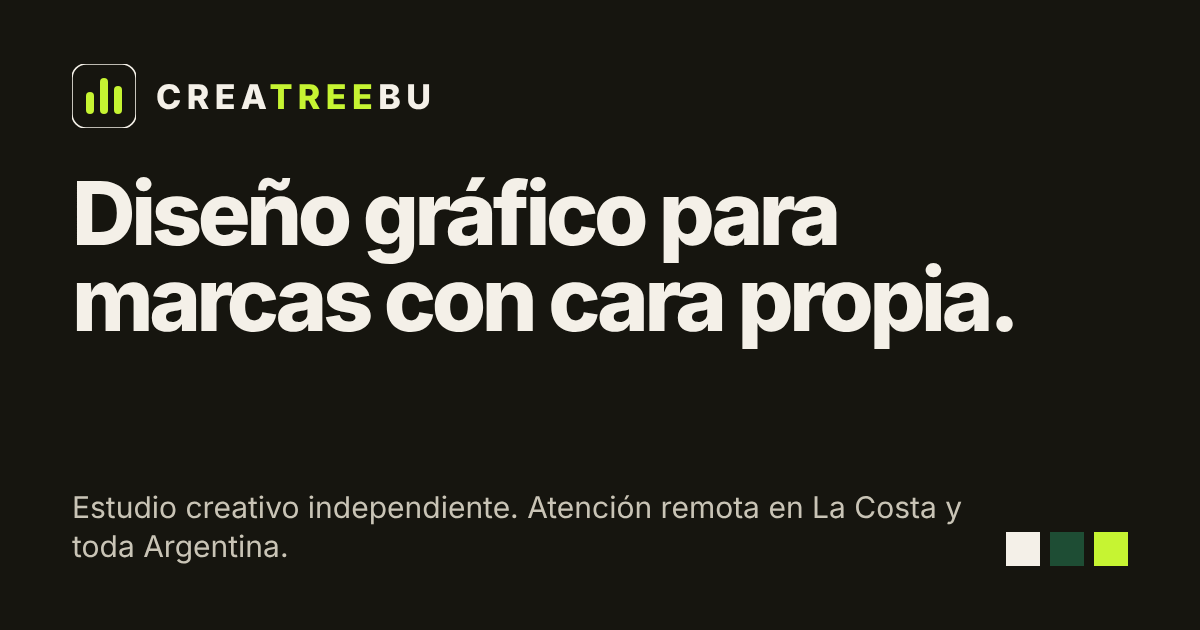
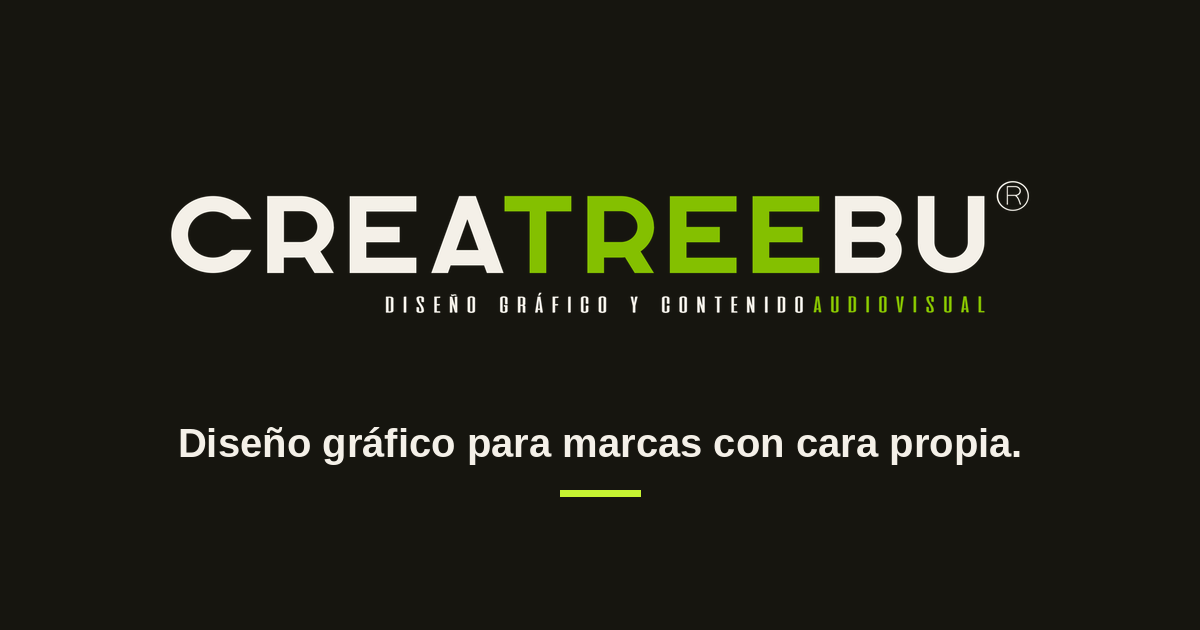
Add files via upload

diff --git a/script.js b/script.js
@@ -70,6 +70,25 @@ const WHATSAPP_MESSAGES = {
 
 const PROYECTOS = [
   {
+    id: "costero",
+    nombre: "Propuesta de rediseño de marca y plan de marketing para Costero",
+    marca: "Costero",
+    categoria: "Identidad y packaging",
+    descripcion: "Propuesta de nuevo logotipo e isotipo para una marca de panificados, con aplicaciones en packaging y merchandising, más un plan de comunicación y marketing para redes sociales.",
+    estado: "propuesta",
+    portada: true,
+    paleta: ["#D9622B", "#16150F"],
+    imagen: { src: "imagenes/costero-1.jpg", arte: "", alt: "Cuatro aplicaciones del nuevo isotipo de Costero: remera negra, gorra blanca, frente de un edificio y taza naranja, con una C naranja con tres semillas verdes." },
+    imagenes: [
+      { src: "imagenes/costero-2.jpg", arte: "", alt: "Cartelera en la vía pública con el nuevo isotipo de Costero, una C naranja con tres semillas, sobre una playa con la palabra Costero escrita en la arena." },
+      { src: "imagenes/costero-3.jpg", arte: "", alt: "Bolsa de pan transparente con el nuevo logotipo de Costero en naranja, sobre fondo gris claro." },
+      { src: "imagenes/costero-4.jpg", arte: "", alt: "Revista abierta con una página que muestra el nuevo isotipo y logotipo de Costero, y otra con un aviso de una hamburguesa y el pan ideal de Costero." },
+      { src: "imagenes/costero-5.jpg", arte: "", alt: "Página de La propuesta: el nuevo logotipo de Costero, una hamburguesa en blanco y negro, una taza naranja con el isotipo y el texto sobre la elección de las tres semillas." },
+      { src: "imagenes/costero-6.jpg", arte: "", alt: "Cierre de la propuesta con el isotipo y el logotipo de Costero en naranja sobre un fondo de madera oscura y el logo de Creatreebu." }
+    ],
+    servicios: ["Rediseño de logotipo", "Isotipo", "Aplicaciones en packaging y merchandising", "Plan de marketing", "Community management"]
+  },
+  {
     id: "heladeria-cherry",
     nombre: "Contenido digital y pantallas para Heladería Cherry",
     marca: "Heladería Cherry",
@@ -644,7 +663,7 @@ function iniciar() {
       return '<button class="pieza" type="button" data-i="' + x.i + '" aria-haspopup="dialog" style="--i:' + n + '" aria-label="' + esc("Ver proyecto " + x.p.marca) + '">' +
         '<span class="pieza-arte">' + medio(x.p.imagen, true) + "</span>" +
         '<span class="pieza-pie"><span class="pieza-marca">' + esc(x.p.marca) + "</span>" +
-        (x.p.estado === "conceptual" ? '<span class="pieza-tag">Proyecto conceptual</span>' : "") + "</span></button>";
+        (x.p.estado === "conceptual" ? '<span class="pieza-tag">Proyecto conceptual</span>' : x.p.estado === "propuesta" ? '<span class="pieza-tag">Propuesta de proyecto</span>' : "") + "</span></button>";
     }).join(""));
   }
 
@@ -665,7 +684,7 @@ function iniciar() {
       '<span class="tile-arte">' + medio(p.imagen, true) + "</span>" +
       '<span class="tile-pie"><span class="tile-marca">' + esc(p.marca) + "</span>" +
       '<span class="tile-cat">' + esc(p.categoria) + "</span>" +
-      (p.estado === "conceptual" ? '<span class="tile-tag">Proyecto conceptual</span>' : "") +
+      (p.estado === "conceptual" ? '<span class="tile-tag">Proyecto conceptual</span>' : p.estado === "propuesta" ? '<span class="tile-tag">Propuesta de proyecto</span>' : "") +
       (p.descripcion ? '<span class="tile-desc">' + esc(p.descripcion) + "</span>" : "") +
       "</span></button>";
   }
@@ -727,7 +746,7 @@ function iniciar() {
     var p = PROYECTOS[estado.i];
     var medios = listaMedios(p);
     var conceptual = p.estado === "conceptual";
-    refs.estado.textContent = conceptual ? "Proyecto conceptual" : "Proyecto real";
+    refs.estado.textContent = conceptual ? "Proyecto conceptual" : p.estado === "propuesta" ? "Propuesta de proyecto" : "Proyecto real";
     refs.marca.textContent = p.marca;
     refs.titulo.textContent = p.nombre;
     refs.desc.textContent = p.descripcion;

diff --git a/index.html b/index.html
@@ -51,6 +51,7 @@
       "url": "https://creatreebu.github.io/",
       "description": "Estudio creativo independiente de diseño gráfico digital. Identidad visual, piezas promocionales, contenido para redes sociales, packaging y diseño editorial. Atención remota para toda Argentina.",
       "image": "https://creatreebu.github.io/og-image.png",
+      "logo": "https://creatreebu.github.io/imagenes/logo-creatreebu.png",
       "areaServed": [
         {
           "@type": "AdministrativeArea",
@@ -253,7 +254,7 @@
           "name": "¿Los proyectos del portfolio son de clientes reales?",
           "acceptedAnswer": {
             "@type": "Answer",
-            "text": "Algunos sí y otros no. Los proyectos marcados como «Proyecto conceptual» son marcas ficticias creadas para mostrar cómo trabajamos identidad, packaging, diseño editorial, redes y promociones. Los demás son trabajos reales para clientes."
+            "text": "Algunos sí y otros no. Los proyectos marcados como «Proyecto conceptual» son marcas ficticias creadas para mostrar cómo trabajamos identidad, packaging, diseño editorial, redes y promociones. Los demás son trabajos o propuestas para clientes reales."
           }
         }
       ]
@@ -272,14 +273,7 @@
   <header class="cab">
     <div class="contenedor cab-fila">
       <a class="marca" href="#inicio" aria-label="CREATREEBU, ir al inicio">
-        <!-- Logotipo del diseño original (tres barras lima sobre carbón) -->
-        <svg class="marca-signo" viewBox="0 0 32 32" aria-hidden="true" focusable="false">
-          <rect width="32" height="32" rx="7" fill="#16150F"/>
-          <rect x="7" y="14" width="4" height="11" rx="2" fill="#C6F432"/>
-          <rect x="14" y="7" width="4" height="18" rx="2" fill="#C6F432"/>
-          <rect x="21" y="11" width="4" height="14" rx="2" fill="#C6F432"/>
-        </svg>
-        <span class="marca-texto">CREA<span>TREE</span>BU</span>
+        <img class="marca-logo" src="imagenes/logo-creatreebu-cab.png" width="925" height="110" alt="CREATREEBU">
       </a>
 
       <button class="menu-btn" type="button" aria-expanded="false" aria-controls="menu" aria-label="Abrir menú">
@@ -728,7 +722,7 @@
           </details>
           <details>
             <summary>¿Los proyectos del portfolio son de clientes reales?</summary>
-            <p>Algunos sí y otros no. Los proyectos marcados como «Proyecto conceptual» son marcas ficticias creadas para mostrar cómo trabajamos identidad, packaging, diseño editorial, redes y promociones. Los demás son trabajos reales para clientes.</p>
+            <p>Algunos sí y otros no. Los proyectos marcados como «Proyecto conceptual» son marcas ficticias creadas para mostrar cómo trabajamos identidad, packaging, diseño editorial, redes y promociones. Los demás son trabajos o propuestas para clientes reales.</p>
           </details>
         </div>
       </div>
@@ -759,7 +753,7 @@
   <footer class="pie">
     <span class="fantasma" aria-hidden="true">CREATREEBU</span>
     <div class="contenedor pie-inner">
-      <p class="pie-marca" aria-label="CREATREEBU">CREA<span>TREE</span>BU</p>
+      <img class="pie-logo" src="imagenes/logo-creatreebu-claro.png" width="1600" height="281" loading="lazy" alt="CREATREEBU, diseño gráfico y contenido audiovisual">
       <p class="pie-texto">Estudio creativo independiente de diseño gráfico digital. Atención remota para toda Argentina, con referencia local en La Costa, provincia de Buenos Aires.</p>
 
       <div class="pie-cols">

diff --git a/style.css b/style.css
@@ -738,3 +738,7 @@ button { font: inherit; color: inherit; }
 .visor .modal-pos { color: var(--suave-osc); }
 .filtros[hidden] { display: none; }
 .mas-img--cubrir img { object-fit: cover; padding: 0; }
+
+/* Logo real de CREATREEBU */
+.marca-logo { height: 30px; width: auto; display: block; }
+.pie-logo { width: min(440px, 80%); height: auto; }
